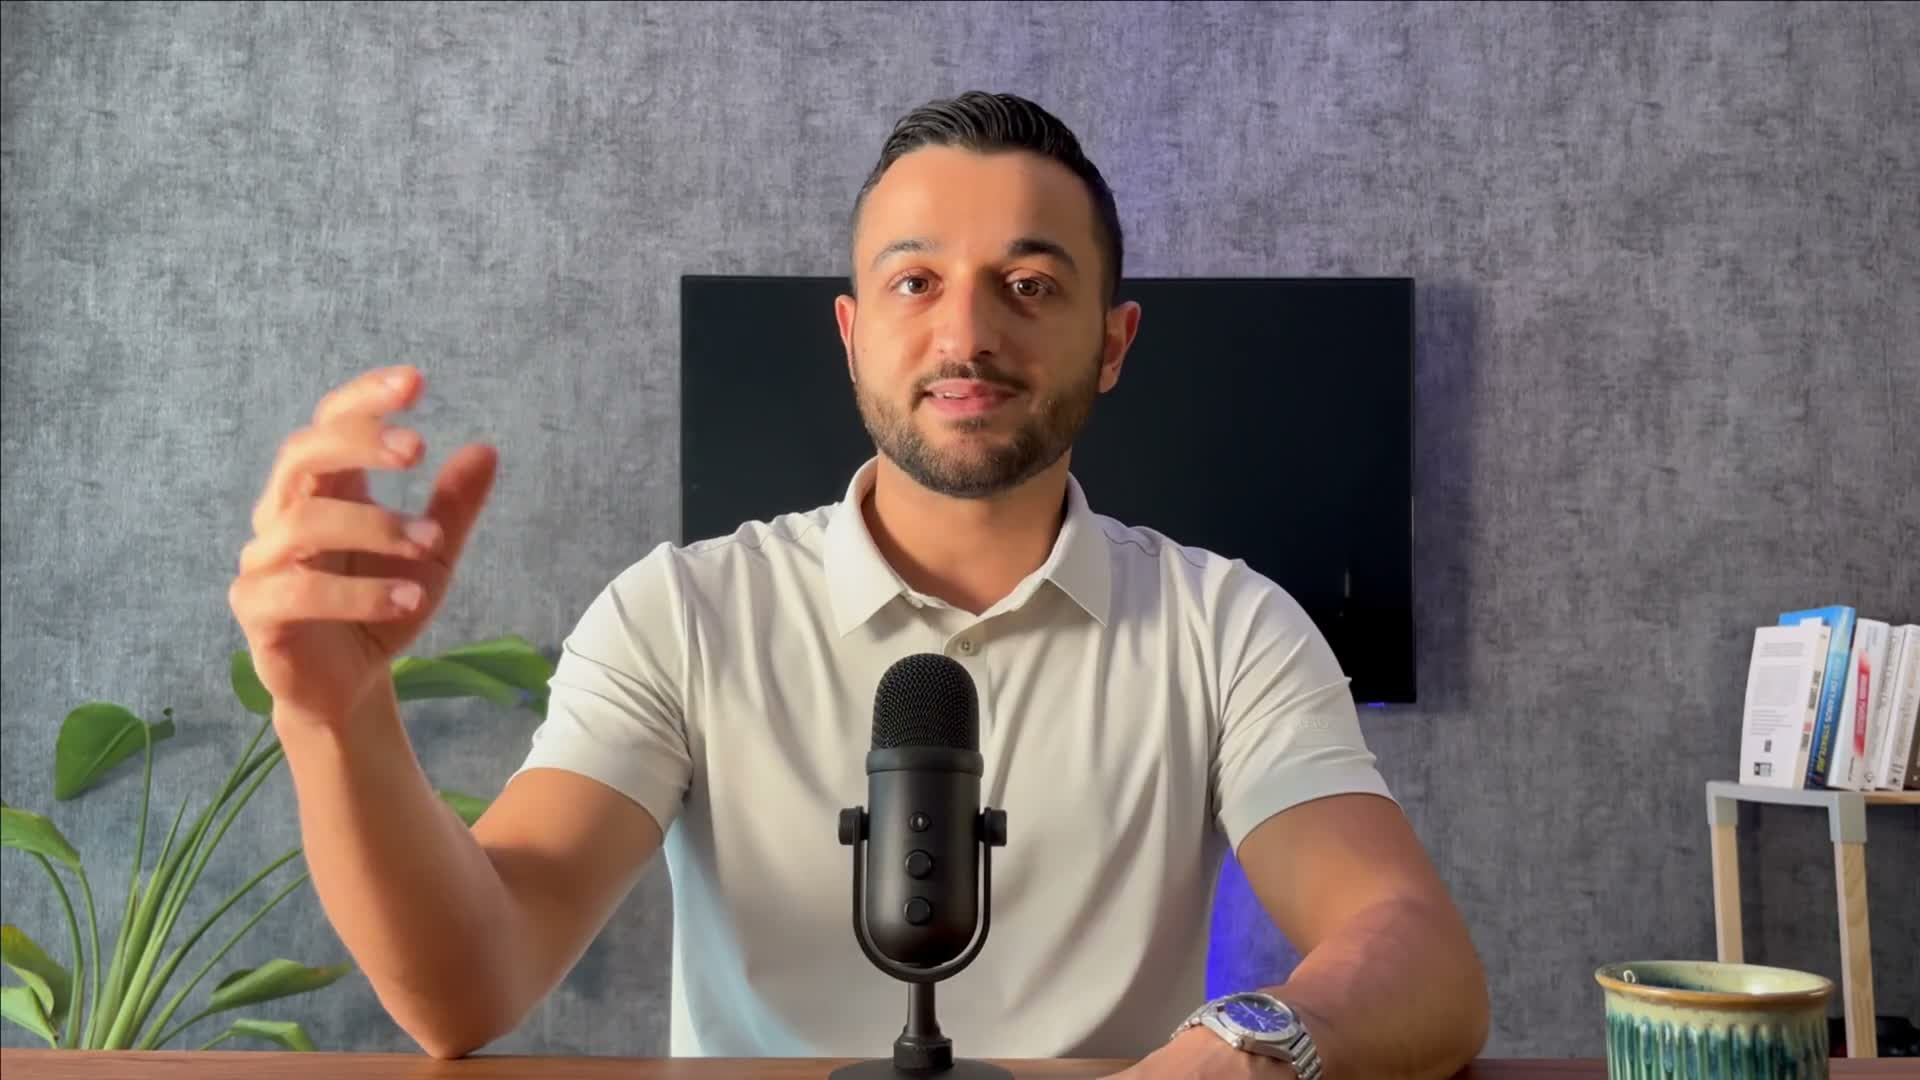
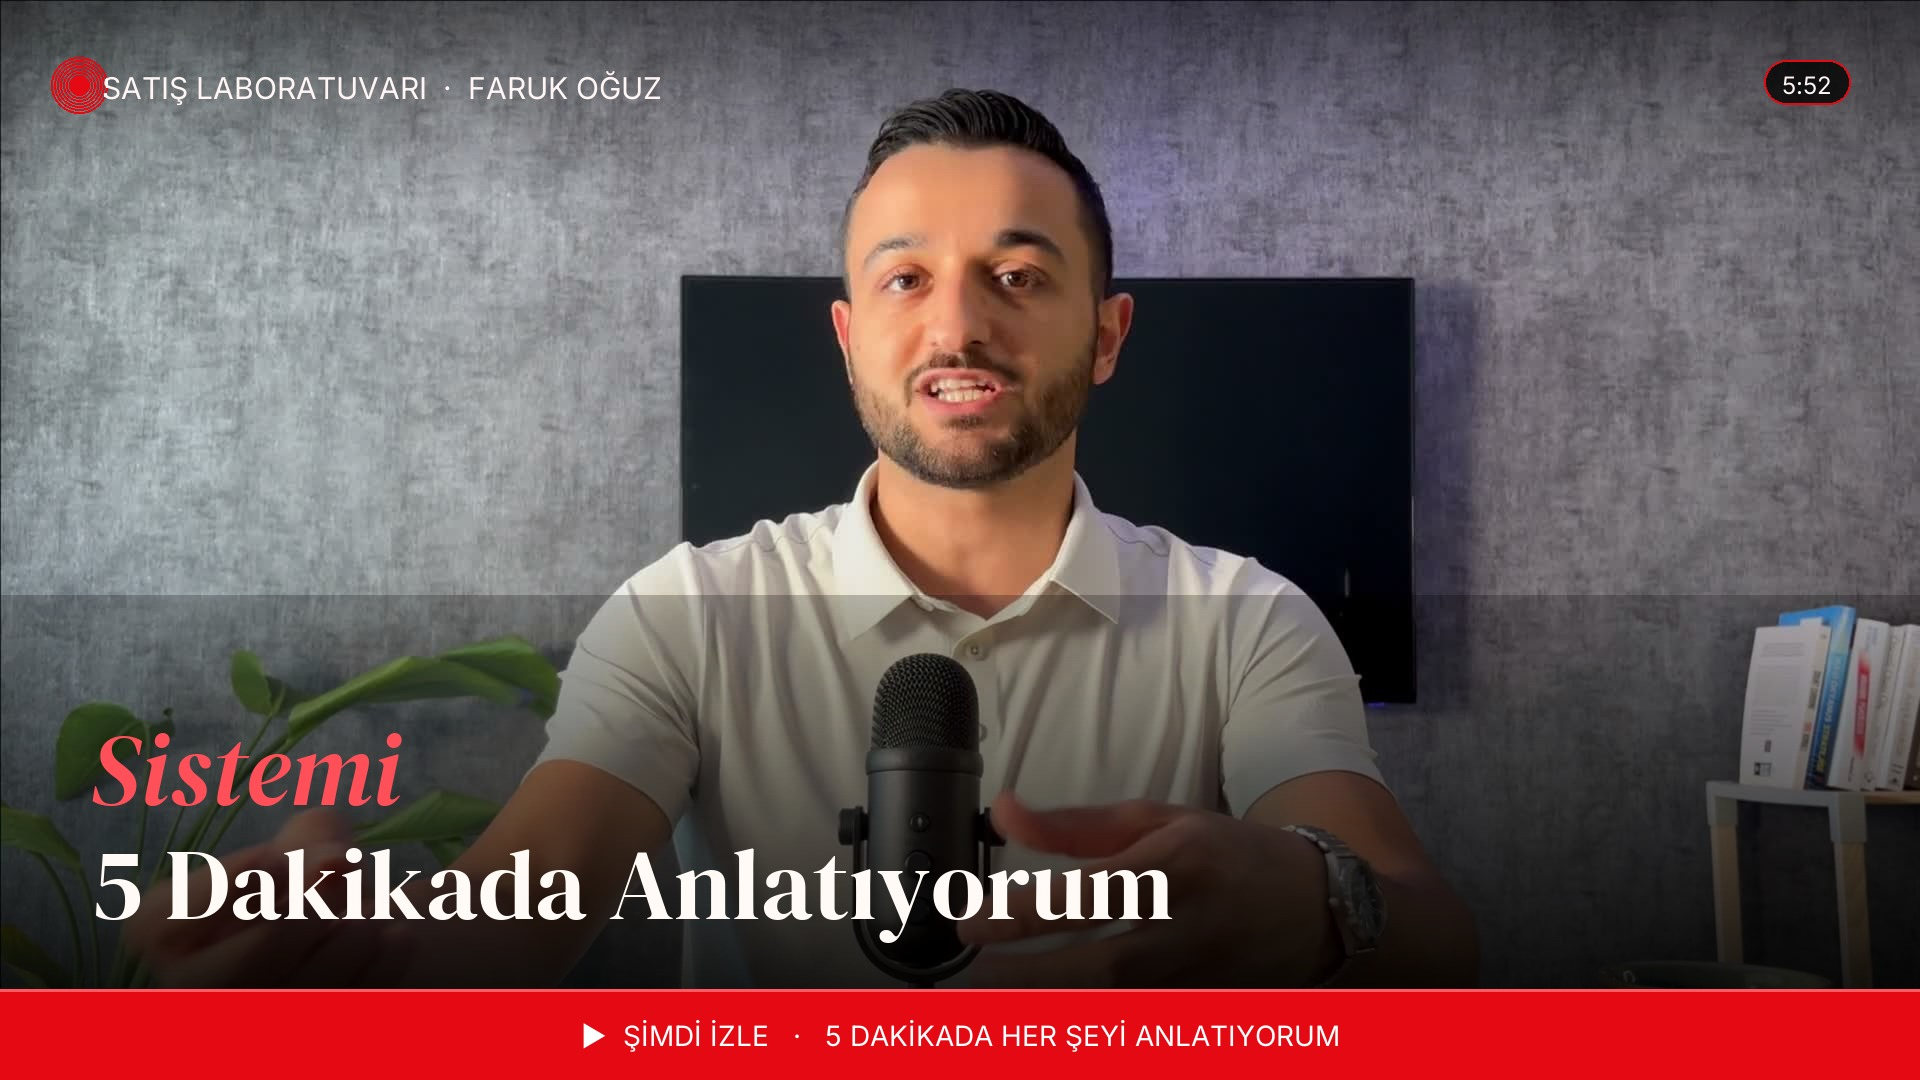
Hero VSL: dikkat çekici poster (eyebrow + duration + bold serif headline + kırmızı CTA bar); facade hint'i gizlendi

diff --git a/index.html b/index.html
@@ -421,21 +421,8 @@
       }
     }
     .video-facade-hint {
-      position: absolute;
-      bottom: 22px;
-      left: 50%;
-      transform: translateX(-50%);
-      color: #fff;
-      font-weight: 700;
-      font-size: 13px;
-      letter-spacing: 2px;
-      text-transform: uppercase;
-      text-shadow: 0 2px 14px rgba(0,0,0,0.9);
-      white-space: nowrap;
-      padding: 8px 18px;
-      background: rgba(0,0,0,0.45);
-      border-radius: 50px;
-      backdrop-filter: blur(4px);
+      /* Hero VSL poster'ın kendi alt CTA bar'ı var, hint'i gizliyoruz */
+      display: none;
     }
     .video-facade.is-hidden {
       opacity: 0;
